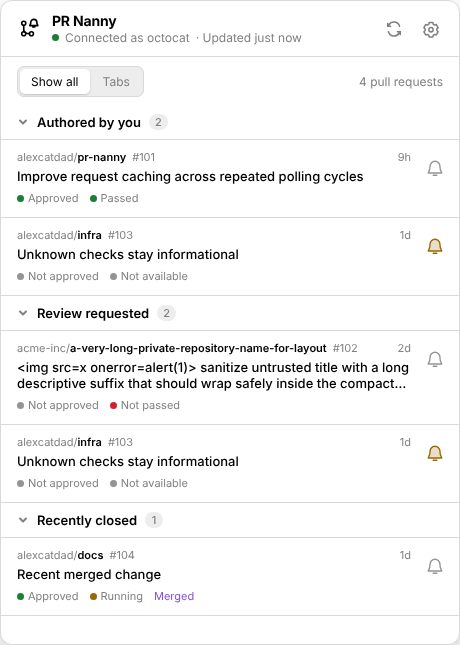
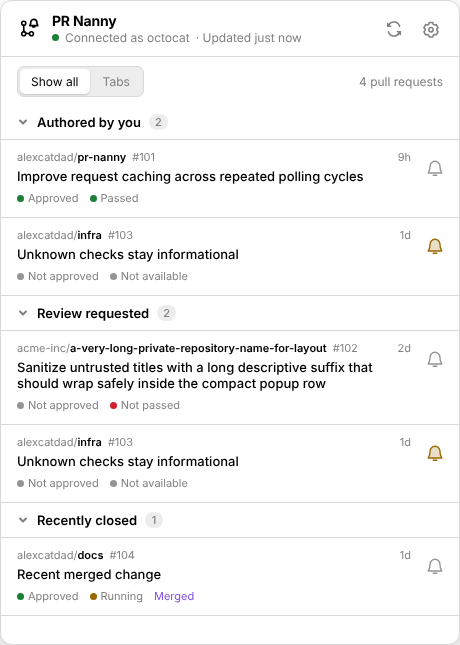
test(frontend): show a plain long title in popup screenshots
The hostile fixture title stays in the assertions; screenshots now swap it
for a readable one.

Claude-Session: https://claude.ai/code/session_01Wpdt4qGu5VtDNDK1gkThmJ

Changed region(s): [[0.0304, 0.5581, 0.8826, 0.6202]]

diff --git a/frontend/e2e/popup.spec.ts b/frontend/e2e/popup.spec.ts
@@ -24,6 +24,11 @@ test('shows grouped PRs, renders untrusted text safely, and keeps long fields in
   expect(scrollWidths.body).toBeLessThanOrEqual(scrollWidths.viewport);
   expect(scrollWidths.root).toBeLessThanOrEqual(scrollWidths.viewport);
   expect(scrollWidths.popup).toBeLessThanOrEqual(scrollWidths.popupClient);
+  // The hostile fixture title is for the assertions above; screenshots show a plain long title instead.
+  await page.locator('.title', { hasText: '<img src=x' }).evaluate((el) => {
+    el.textContent =
+      'Sanitize untrusted titles with a long descriptive suffix that should wrap safely inside the compact popup row';
+  });
   await page.locator('.popup').screenshot({ path: 'screenshots/popup-light-all.png' });
   await page.emulateMedia({ colorScheme: 'dark' });
   await expect
